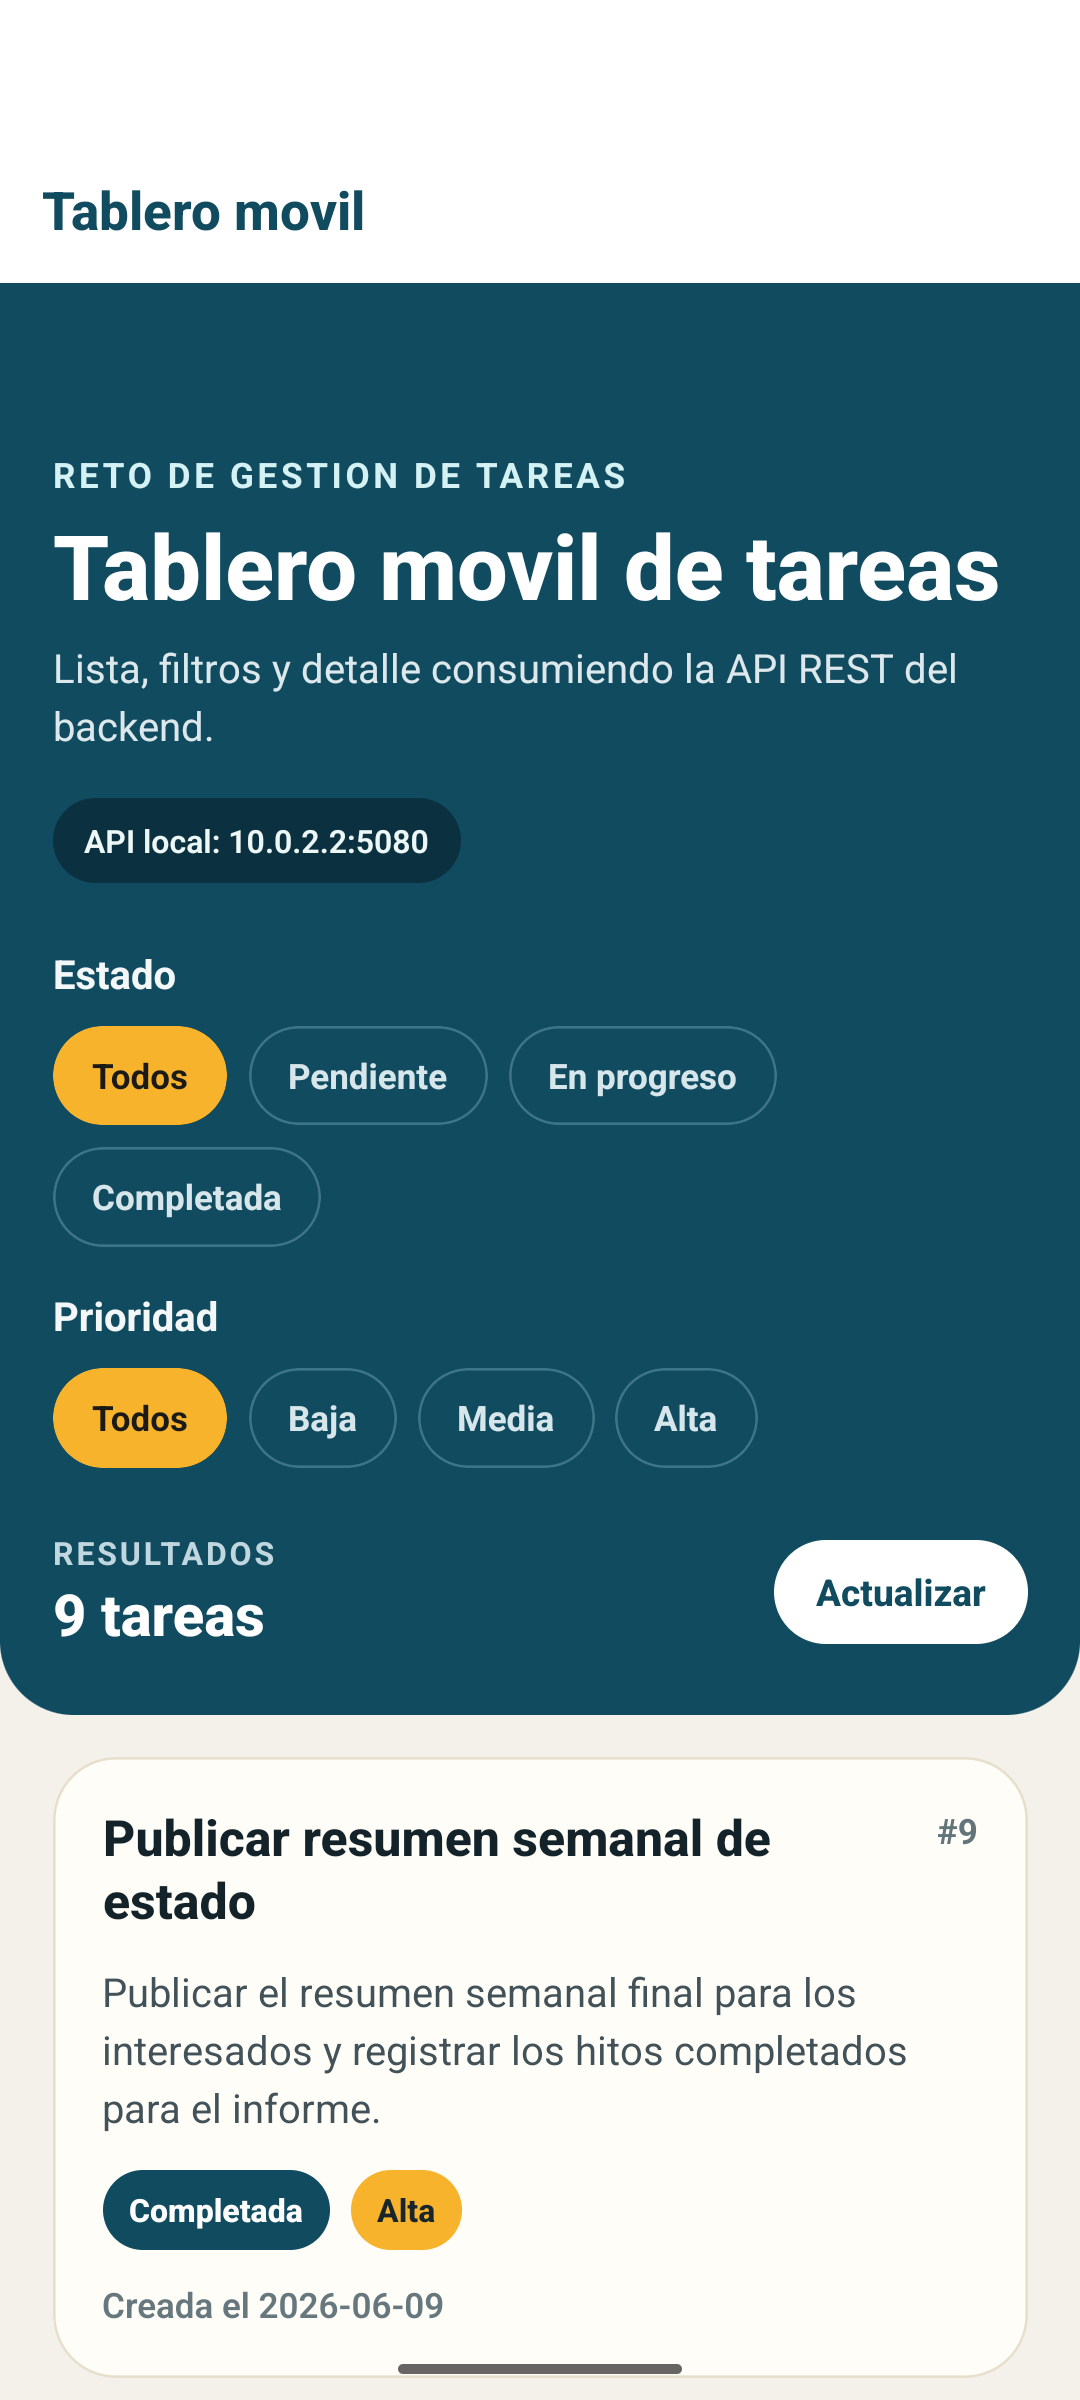
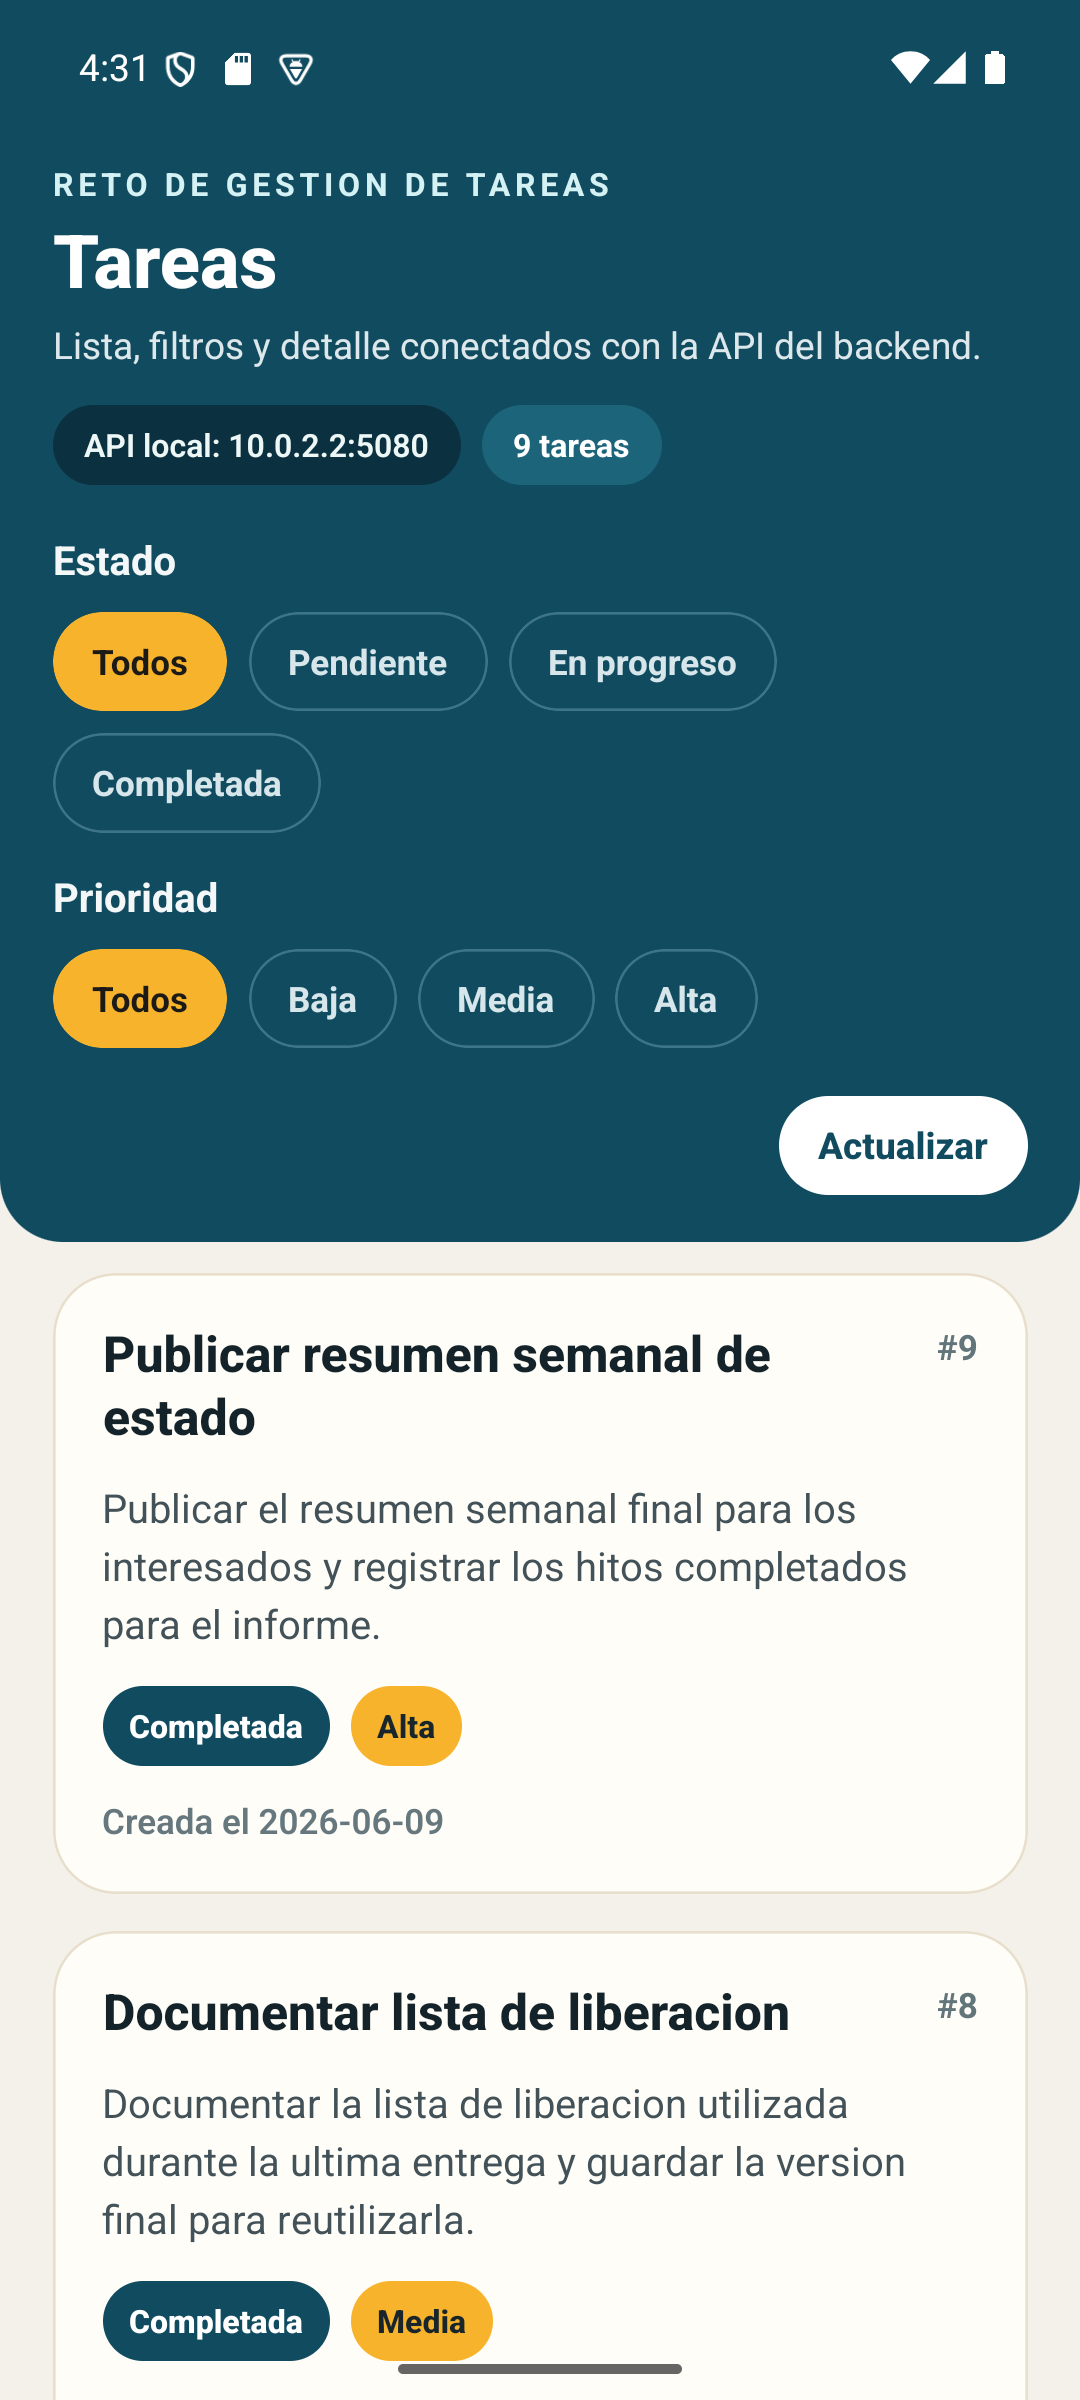
feat(mobile): refine task board header

diff --git a/mobile/src/features/tasks/screens/TaskListScreen.tsx b/mobile/src/features/tasks/screens/TaskListScreen.tsx
@@ -85,18 +85,23 @@ export function TaskListScreen() {
   };
 
   const header = (
-    <View style={[styles.header, {paddingTop: safeAreaInsets.top + 12}]}>
+    <View style={[styles.header, {paddingTop: safeAreaInsets.top + 10}]}>
       <View style={styles.headerPanel}>
         <Text style={styles.eyebrow}>Reto de gestion de tareas</Text>
-        <Text style={styles.title}>Tablero movil de tareas</Text>
+        <Text style={styles.title}>Tareas</Text>
         <Text style={styles.subtitle}>
-          Lista, filtros y detalle consumiendo la API REST del backend.
+          Lista, filtros y detalle conectados con la API del backend.
         </Text>
 
-        <View style={styles.environmentBadge}>
-          <Text style={styles.environmentText}>
-            API local: {formatApiTarget()}
-          </Text>
+        <View style={styles.metaRow}>
+          <View style={styles.environmentBadge}>
+            <Text style={styles.environmentText}>
+              API local: {formatApiTarget()}
+            </Text>
+          </View>
+          <View style={styles.countBadge}>
+            <Text style={styles.countBadgeText}>{tasks.length} tareas</Text>
+          </View>
         </View>
       </View>
 
@@ -116,12 +121,7 @@ export function TaskListScreen() {
           formatter={formatPriorityLabel}
         />
       </View>
-
       <View style={styles.summaryRow}>
-        <View>
-          <Text style={styles.summaryLabel}>Resultados</Text>
-          <Text style={styles.summaryValue}>{tasks.length} tareas</Text>
-        </View>
         <Pressable onPress={refreshTasks} style={styles.refreshButton}>
           <Text style={styles.refreshButtonText}>Actualizar</Text>
         </Pressable>
@@ -281,38 +281,42 @@ const styles = StyleSheet.create({
   },
   header: {
     paddingHorizontal: 20,
-    paddingBottom: 24,
+    paddingBottom: 18,
     backgroundColor: '#114b5f',
-    borderBottomLeftRadius: 28,
-    borderBottomRightRadius: 28,
-    marginBottom: 16,
+    borderBottomLeftRadius: 24,
+    borderBottomRightRadius: 24,
+    marginBottom: 12,
   },
   headerPanel: {
-    gap: 8,
+    gap: 6,
   },
   eyebrow: {
     color: '#d4f1f4',
-    fontSize: 13,
-    letterSpacing: 1.4,
+    fontSize: 12,
+    letterSpacing: 1.8,
     textTransform: 'uppercase',
     fontWeight: '700',
   },
   title: {
     color: '#ffffff',
-    fontSize: 34,
-    lineHeight: 38,
+    fontSize: 28,
+    lineHeight: 32,
     fontWeight: '800',
   },
   subtitle: {
     color: '#dce8eb',
-    fontSize: 15,
-    lineHeight: 22,
+    fontSize: 14,
+    lineHeight: 20,
+  },
+  metaRow: {
+    marginTop: 6,
+    flexDirection: 'row',
+    flexWrap: 'wrap',
+    gap: 8,
   },
   environmentBadge: {
-    alignSelf: 'flex-start',
-    marginTop: 8,
     paddingHorizontal: 12,
-    paddingVertical: 8,
+    paddingVertical: 7,
     backgroundColor: '#0b3140',
     borderRadius: 999,
   },
@@ -321,9 +325,20 @@ const styles = StyleSheet.create({
     fontSize: 12,
     fontWeight: '600',
   },
+  countBadge: {
+    paddingHorizontal: 12,
+    paddingVertical: 7,
+    borderRadius: 999,
+    backgroundColor: '#1b647a',
+  },
+  countBadgeText: {
+    color: '#ffffff',
+    fontSize: 12,
+    fontWeight: '700',
+  },
   filtersSection: {
-    marginTop: 24,
-    gap: 16,
+    marginTop: 18,
+    gap: 14,
   },
   filterGroup: {
     gap: 10,
@@ -359,28 +374,16 @@ const styles = StyleSheet.create({
     color: '#1c1a17',
   },
   summaryRow: {
-    marginTop: 24,
+    marginTop: 18,
     flexDirection: 'row',
-    justifyContent: 'space-between',
+    justifyContent: 'flex-end',
     alignItems: 'center',
-  },
-  summaryLabel: {
-    color: '#c0d7df',
-    fontSize: 12,
-    textTransform: 'uppercase',
-    letterSpacing: 1.1,
-    fontWeight: '700',
-  },
-  summaryValue: {
-    color: '#ffffff',
-    fontSize: 22,
-    fontWeight: '800',
   },
   refreshButton: {
     backgroundColor: '#ffffff',
     borderRadius: 999,
-    paddingHorizontal: 16,
-    paddingVertical: 10,
+    paddingHorizontal: 15,
+    paddingVertical: 9,
   },
   refreshButtonText: {
     color: '#114b5f',

diff --git a/mobile/src/navigation/AppNavigator.tsx b/mobile/src/navigation/AppNavigator.tsx
@@ -23,7 +23,7 @@ export function AppNavigator() {
         <Stack.Screen
           component={TaskListScreen}
           name="TaskList"
-          options={{title: 'Tablero movil'}}
+          options={{headerShown: false}}
         />
         <Stack.Screen
           component={TaskDetailScreen}